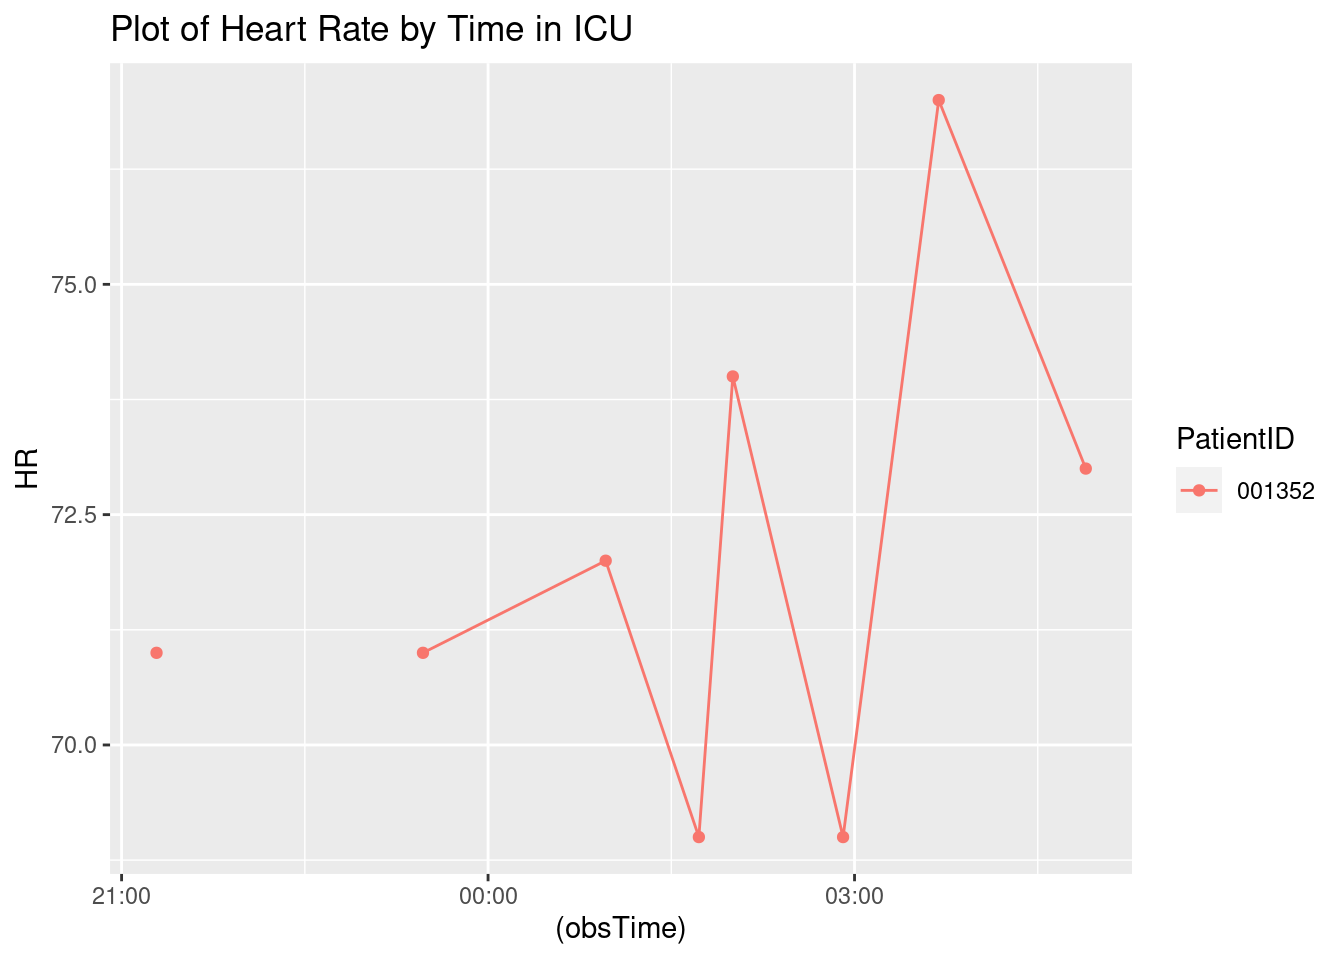
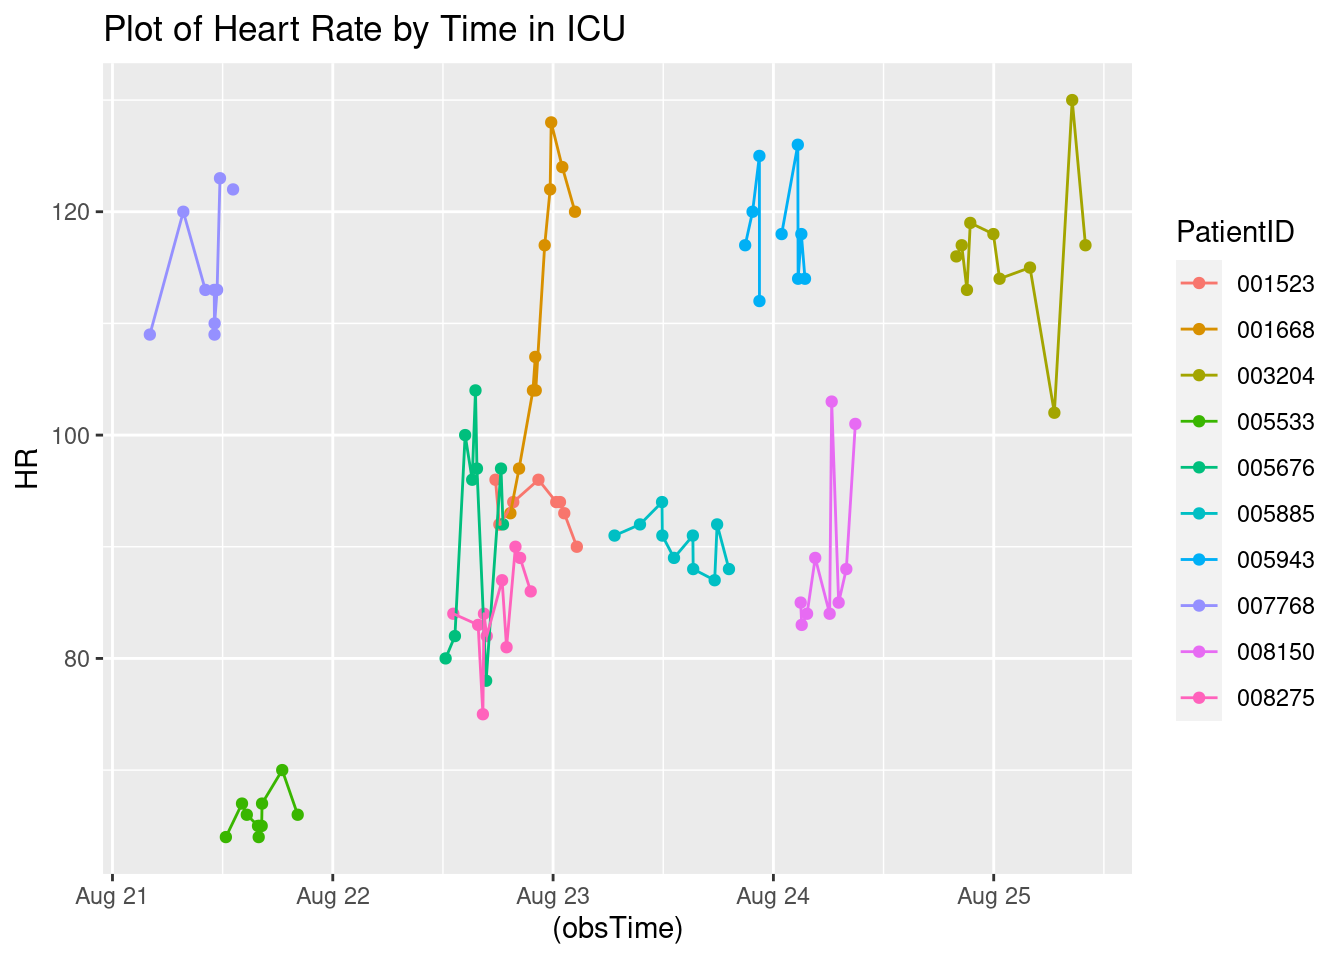
Updated report

diff --git a/A7.html b/A7.html
@@ -114,7 +114,7 @@ pre > code.sourceCode > span > a:first-child::before { text-decoration: underlin
 </div>
 <div class="sourceCode cell-code" id="cb4"><pre class="sourceCode r code-with-copy"><code class="sourceCode r"><span id="cb4-1"><a href="#cb4-1" aria-hidden="true" tabindex="-1"></a><span class="fu">toc</span>()</span></code><button title="Copy to Clipboard" class="code-copy-button"><i class="bi"></i></button></pre></div>
 <div class="cell-output cell-output-stdout">
-<pre><code>6.846 sec elapsed</code></pre>
+<pre><code>5.168 sec elapsed</code></pre>
 </div>
 <div class="sourceCode cell-code" id="cb6"><pre class="sourceCode r code-with-copy"><code class="sourceCode r"><span id="cb6-1"><a href="#cb6-1" aria-hidden="true" tabindex="-1"></a><span class="fu">tic</span>()</span>
 <span id="cb6-2"><a href="#cb6-2" aria-hidden="true" tabindex="-1"></a>test1<span class="ot">=</span><span class="fu">makeSepsisDataset</span>(<span class="at">n=</span><span class="dv">50</span>,<span class="at">read_fn =</span> <span class="st">"read_delim"</span>)</span>
@@ -124,7 +124,7 @@ pre > code.sourceCode > span > a:first-child::before { text-decoration: underlin
 </div>
 <div class="sourceCode cell-code" id="cb8"><pre class="sourceCode r code-with-copy"><code class="sourceCode r"><span id="cb8-1"><a href="#cb8-1" aria-hidden="true" tabindex="-1"></a><span class="fu">toc</span>()</span></code><button title="Copy to Clipboard" class="code-copy-button"><i class="bi"></i></button></pre></div>
 <div class="cell-output cell-output-stdout">
-<pre><code>26.568 sec elapsed</code></pre>
+<pre><code>24.363 sec elapsed</code></pre>
 </div>
 <div class="sourceCode cell-code" id="cb10"><pre class="sourceCode r code-with-copy"><code class="sourceCode r"><span id="cb10-1"><a href="#cb10-1" aria-hidden="true" tabindex="-1"></a><span class="co"># n=100</span></span>
 <span id="cb10-2"><a href="#cb10-2" aria-hidden="true" tabindex="-1"></a><span class="fu">tic</span>()</span>
@@ -135,7 +135,7 @@ pre > code.sourceCode > span > a:first-child::before { text-decoration: underlin
 </div>
 <div class="sourceCode cell-code" id="cb12"><pre class="sourceCode r code-with-copy"><code class="sourceCode r"><span id="cb12-1"><a href="#cb12-1" aria-hidden="true" tabindex="-1"></a><span class="fu">toc</span>()</span></code><button title="Copy to Clipboard" class="code-copy-button"><i class="bi"></i></button></pre></div>
 <div class="cell-output cell-output-stdout">
-<pre><code>12.187 sec elapsed</code></pre>
+<pre><code>8.878 sec elapsed</code></pre>
 </div>
 <div class="sourceCode cell-code" id="cb14"><pre class="sourceCode r code-with-copy"><code class="sourceCode r"><span id="cb14-1"><a href="#cb14-1" aria-hidden="true" tabindex="-1"></a><span class="fu">tic</span>()</span>
 <span id="cb14-2"><a href="#cb14-2" aria-hidden="true" tabindex="-1"></a>test1<span class="ot">=</span><span class="fu">makeSepsisDataset</span>(<span class="at">n=</span><span class="dv">100</span>,<span class="at">read_fn =</span> <span class="st">"read_delim"</span>)</span>
@@ -145,7 +145,7 @@ pre > code.sourceCode > span > a:first-child::before { text-decoration: underlin
 </div>
 <div class="sourceCode cell-code" id="cb16"><pre class="sourceCode r code-with-copy"><code class="sourceCode r"><span id="cb16-1"><a href="#cb16-1" aria-hidden="true" tabindex="-1"></a><span class="fu">toc</span>()</span></code><button title="Copy to Clipboard" class="code-copy-button"><i class="bi"></i></button></pre></div>
 <div class="cell-output cell-output-stdout">
-<pre><code>49.205 sec elapsed</code></pre>
+<pre><code>36.27 sec elapsed</code></pre>
 </div>
 <div class="sourceCode cell-code" id="cb18"><pre class="sourceCode r code-with-copy"><code class="sourceCode r"><span id="cb18-1"><a href="#cb18-1" aria-hidden="true" tabindex="-1"></a><span class="co"># n=500</span></span>
 <span id="cb18-2"><a href="#cb18-2" aria-hidden="true" tabindex="-1"></a><span class="fu">tic</span>()</span>
@@ -156,7 +156,7 @@ pre > code.sourceCode > span > a:first-child::before { text-decoration: underlin
 </div>
 <div class="sourceCode cell-code" id="cb20"><pre class="sourceCode r code-with-copy"><code class="sourceCode r"><span id="cb20-1"><a href="#cb20-1" aria-hidden="true" tabindex="-1"></a><span class="fu">toc</span>()</span></code><button title="Copy to Clipboard" class="code-copy-button"><i class="bi"></i></button></pre></div>
 <div class="cell-output cell-output-stdout">
-<pre><code>61.281 sec elapsed</code></pre>
+<pre><code>44.902 sec elapsed</code></pre>
 </div>
 <div class="sourceCode cell-code" id="cb22"><pre class="sourceCode r code-with-copy"><code class="sourceCode r"><span id="cb22-1"><a href="#cb22-1" aria-hidden="true" tabindex="-1"></a><span class="fu">tic</span>()</span>
 <span id="cb22-2"><a href="#cb22-2" aria-hidden="true" tabindex="-1"></a>test1<span class="ot">=</span><span class="fu">makeSepsisDataset</span>(<span class="at">n=</span><span class="dv">500</span>,<span class="at">read_fn =</span> <span class="st">"read_delim"</span>)</span>
@@ -166,7 +166,7 @@ pre > code.sourceCode > span > a:first-child::before { text-decoration: underlin
 </div>
 <div class="sourceCode cell-code" id="cb24"><pre class="sourceCode r code-with-copy"><code class="sourceCode r"><span id="cb24-1"><a href="#cb24-1" aria-hidden="true" tabindex="-1"></a><span class="fu">toc</span>()</span></code><button title="Copy to Clipboard" class="code-copy-button"><i class="bi"></i></button></pre></div>
 <div class="cell-output cell-output-stdout">
-<pre><code>246.195 sec elapsed</code></pre>
+<pre><code>182.886 sec elapsed</code></pre>
 </div>
 </div>
 <p><strong>Task 3</strong></p>
@@ -192,7 +192,7 @@ pre > code.sourceCode > span > a:first-child::before { text-decoration: underlin
 <span id="cb28-4"><a href="#cb28-4" aria-hidden="true" tabindex="-1"></a></span>
 <span id="cb28-5"><a href="#cb28-5" aria-hidden="true" tabindex="-1"></a><span class="fu">Sys.time</span>()</span></code><button title="Copy to Clipboard" class="code-copy-button"><i class="bi"></i></button></pre></div>
 <div class="cell-output cell-output-stdout">
-<pre><code>[1] "2023-08-20 19:20:43 UTC"</code></pre>
+<pre><code>[1] "2023-08-20 20:20:44 UTC"</code></pre>
 </div>
 <div class="sourceCode cell-code" id="cb30"><pre class="sourceCode r code-with-copy"><code class="sourceCode r"><span id="cb30-1"><a href="#cb30-1" aria-hidden="true" tabindex="-1"></a>dfnew <span class="ot">&lt;-</span> df <span class="sc">%&gt;%</span></span>
 <span id="cb30-2"><a href="#cb30-2" aria-hidden="true" tabindex="-1"></a>  <span class="fu">subset</span>(SepsisLabel<span class="sc">==</span><span class="dv">1</span>)</span>
@@ -221,13 +221,94 @@ pre > code.sourceCode > span > a:first-child::before { text-decoration: underlin
 </thead>
 <tbody>
 <tr class="odd">
-<td style="text-align: left;">001352</td>
-<td style="text-align: right;">10</td>
-<td style="text-align: right;">73</td>
+<td style="text-align: left;">001523</td>
+<td style="text-align: right;">55</td>
+<td style="text-align: right;">90</td>
 <td style="text-align: right;">NA</td>
-<td style="text-align: right;">13</td>
+<td style="text-align: right;">15</td>
 <td style="text-align: right;">1</td>
-<td style="text-align: left;">2023-08-21 04:53:35</td>
+<td style="text-align: left;">2023-08-23 02:35:09</td>
+</tr>
+<tr class="even">
+<td style="text-align: left;">001668</td>
+<td style="text-align: right;">55</td>
+<td style="text-align: right;">120</td>
+<td style="text-align: right;">NA</td>
+<td style="text-align: right;">28</td>
+<td style="text-align: right;">1</td>
+<td style="text-align: left;">2023-08-23 02:23:07</td>
+</tr>
+<tr class="odd">
+<td style="text-align: left;">003204</td>
+<td style="text-align: right;">111</td>
+<td style="text-align: right;">117</td>
+<td style="text-align: right;">NA</td>
+<td style="text-align: right;">19</td>
+<td style="text-align: right;">1</td>
+<td style="text-align: left;">2023-08-25 09:59:42</td>
+</tr>
+<tr class="even">
+<td style="text-align: left;">005533</td>
+<td style="text-align: right;">26</td>
+<td style="text-align: right;">66</td>
+<td style="text-align: right;">33.60</td>
+<td style="text-align: right;">30</td>
+<td style="text-align: right;">1</td>
+<td style="text-align: left;">2023-08-21 20:10:42</td>
+</tr>
+<tr class="odd">
+<td style="text-align: left;">005676</td>
+<td style="text-align: right;">50</td>
+<td style="text-align: right;">92</td>
+<td style="text-align: right;">NA</td>
+<td style="text-align: right;">25</td>
+<td style="text-align: right;">1</td>
+<td style="text-align: left;">2023-08-22 18:32:26</td>
+</tr>
+<tr class="even">
+<td style="text-align: left;">005885</td>
+<td style="text-align: right;">72</td>
+<td style="text-align: right;">88</td>
+<td style="text-align: right;">NA</td>
+<td style="text-align: right;">30</td>
+<td style="text-align: right;">1</td>
+<td style="text-align: left;">2023-08-23 19:09:31</td>
+</tr>
+<tr class="odd">
+<td style="text-align: left;">005943</td>
+<td style="text-align: right;">80</td>
+<td style="text-align: right;">114</td>
+<td style="text-align: right;">38.22</td>
+<td style="text-align: right;">17</td>
+<td style="text-align: right;">1</td>
+<td style="text-align: left;">2023-08-24 03:26:26</td>
+</tr>
+<tr class="even">
+<td style="text-align: left;">007768</td>
+<td style="text-align: right;">17</td>
+<td style="text-align: right;">122</td>
+<td style="text-align: right;">NA</td>
+<td style="text-align: right;">22</td>
+<td style="text-align: right;">1</td>
+<td style="text-align: left;">2023-08-21 13:08:23</td>
+</tr>
+<tr class="odd">
+<td style="text-align: left;">008150</td>
+<td style="text-align: right;">85</td>
+<td style="text-align: right;">101</td>
+<td style="text-align: right;">NA</td>
+<td style="text-align: right;">40</td>
+<td style="text-align: right;">1</td>
+<td style="text-align: left;">2023-08-24 08:55:36</td>
+</tr>
+<tr class="even">
+<td style="text-align: left;">008275</td>
+<td style="text-align: right;">53</td>
+<td style="text-align: right;">86</td>
+<td style="text-align: right;">37.50</td>
+<td style="text-align: right;">26</td>
+<td style="text-align: right;">1</td>
+<td style="text-align: left;">2023-08-22 21:33:41</td>
 </tr>
 </tbody>
 </table>
